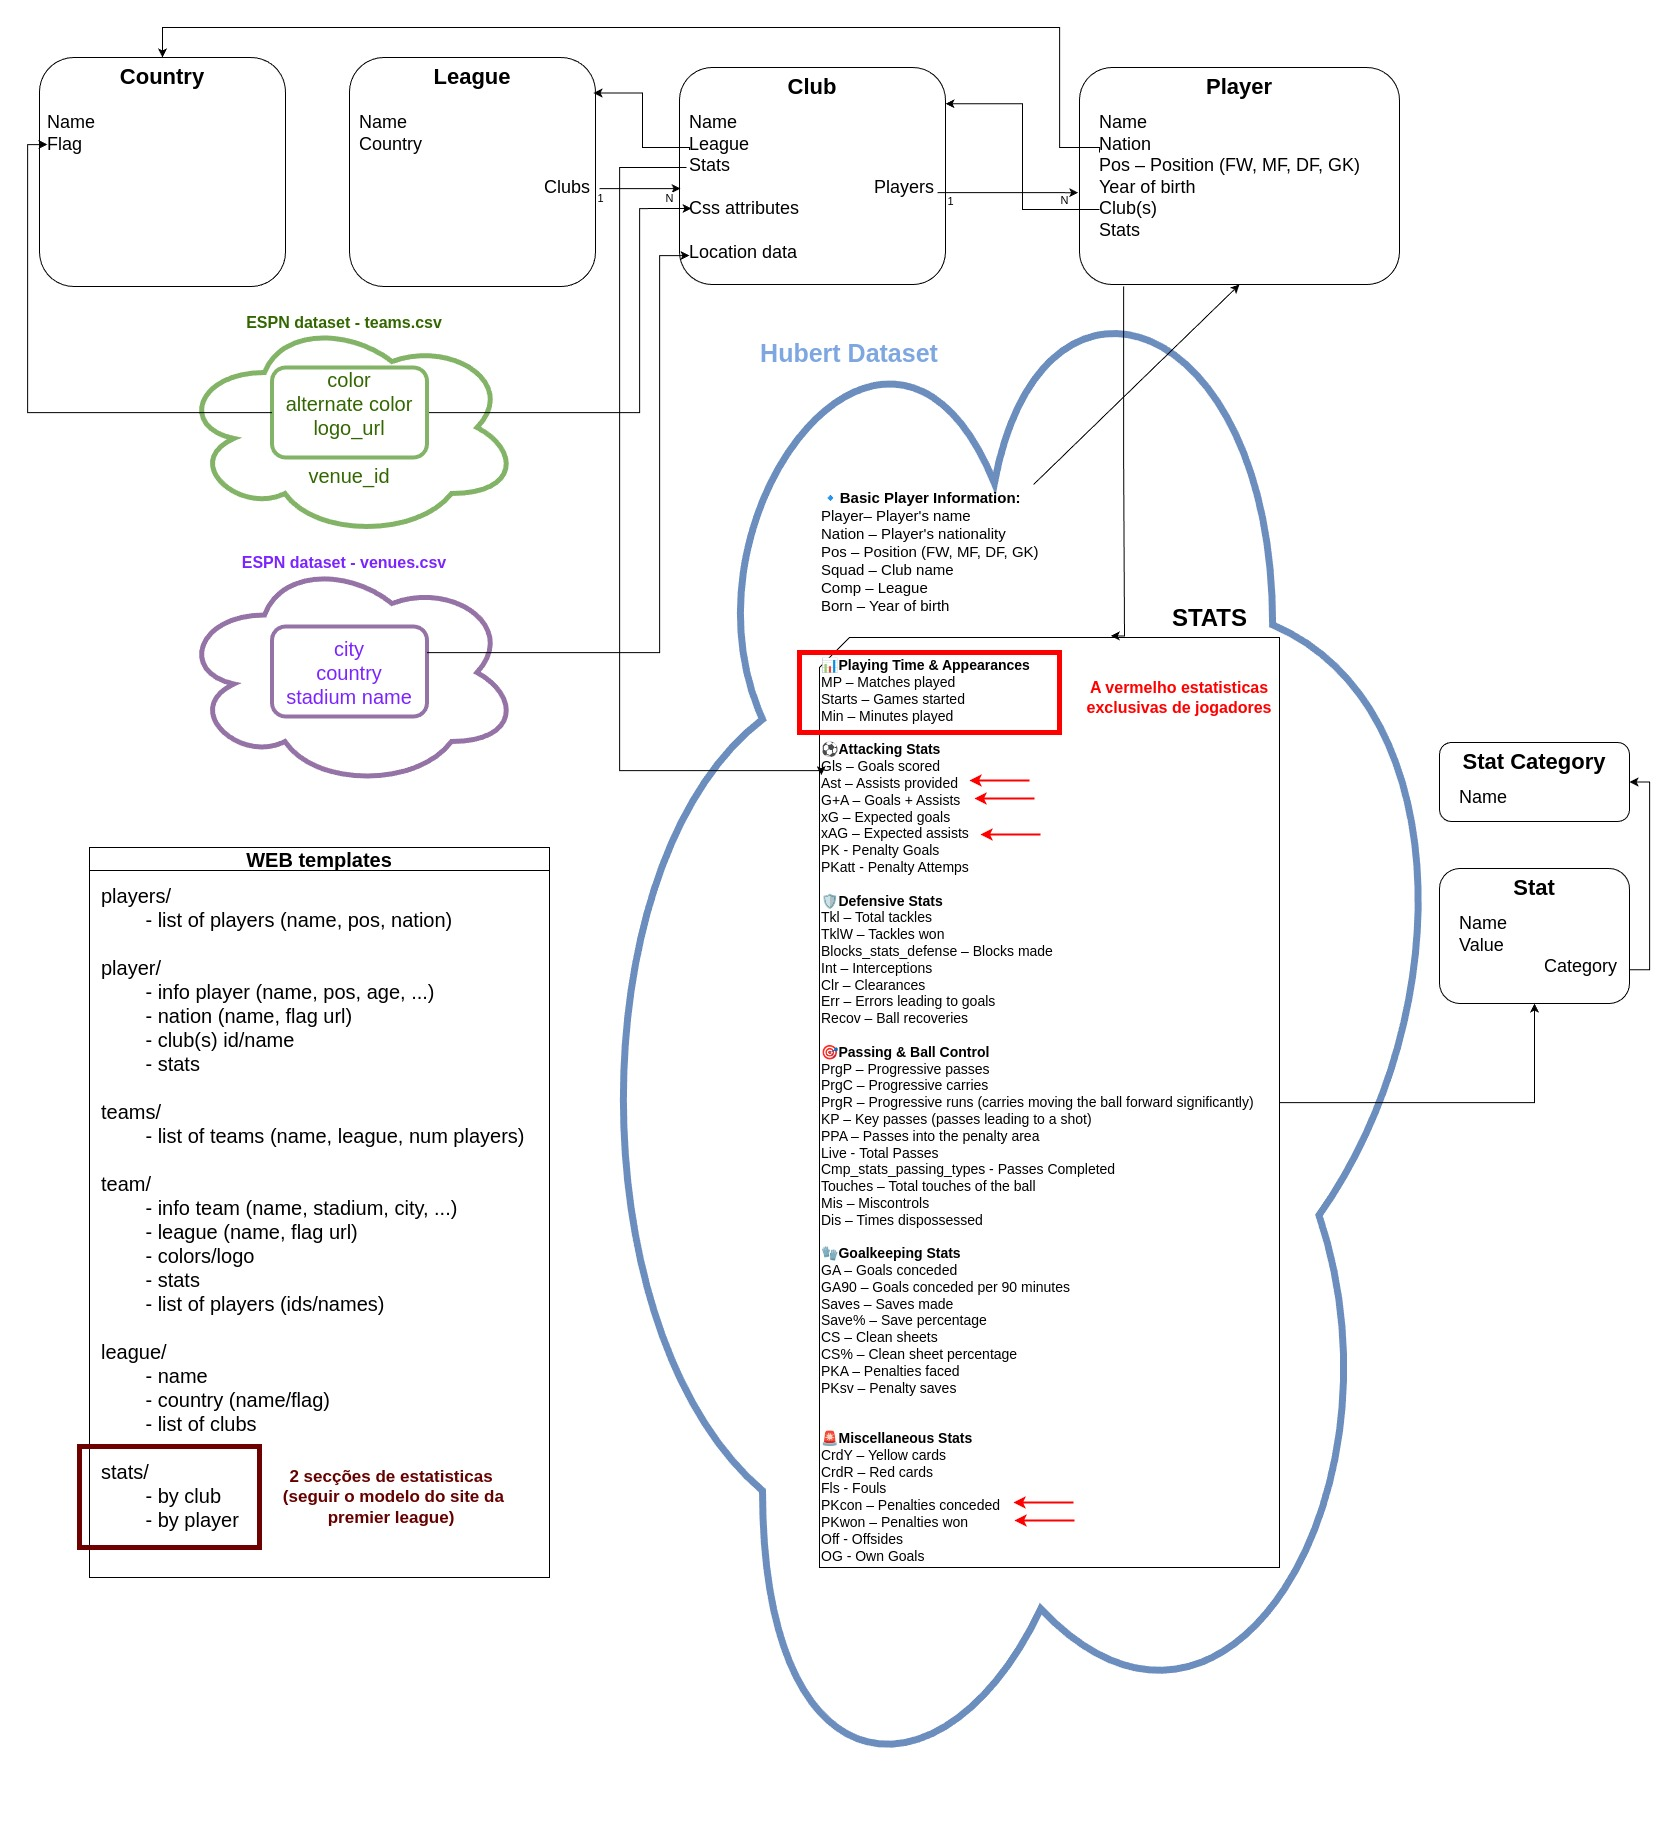
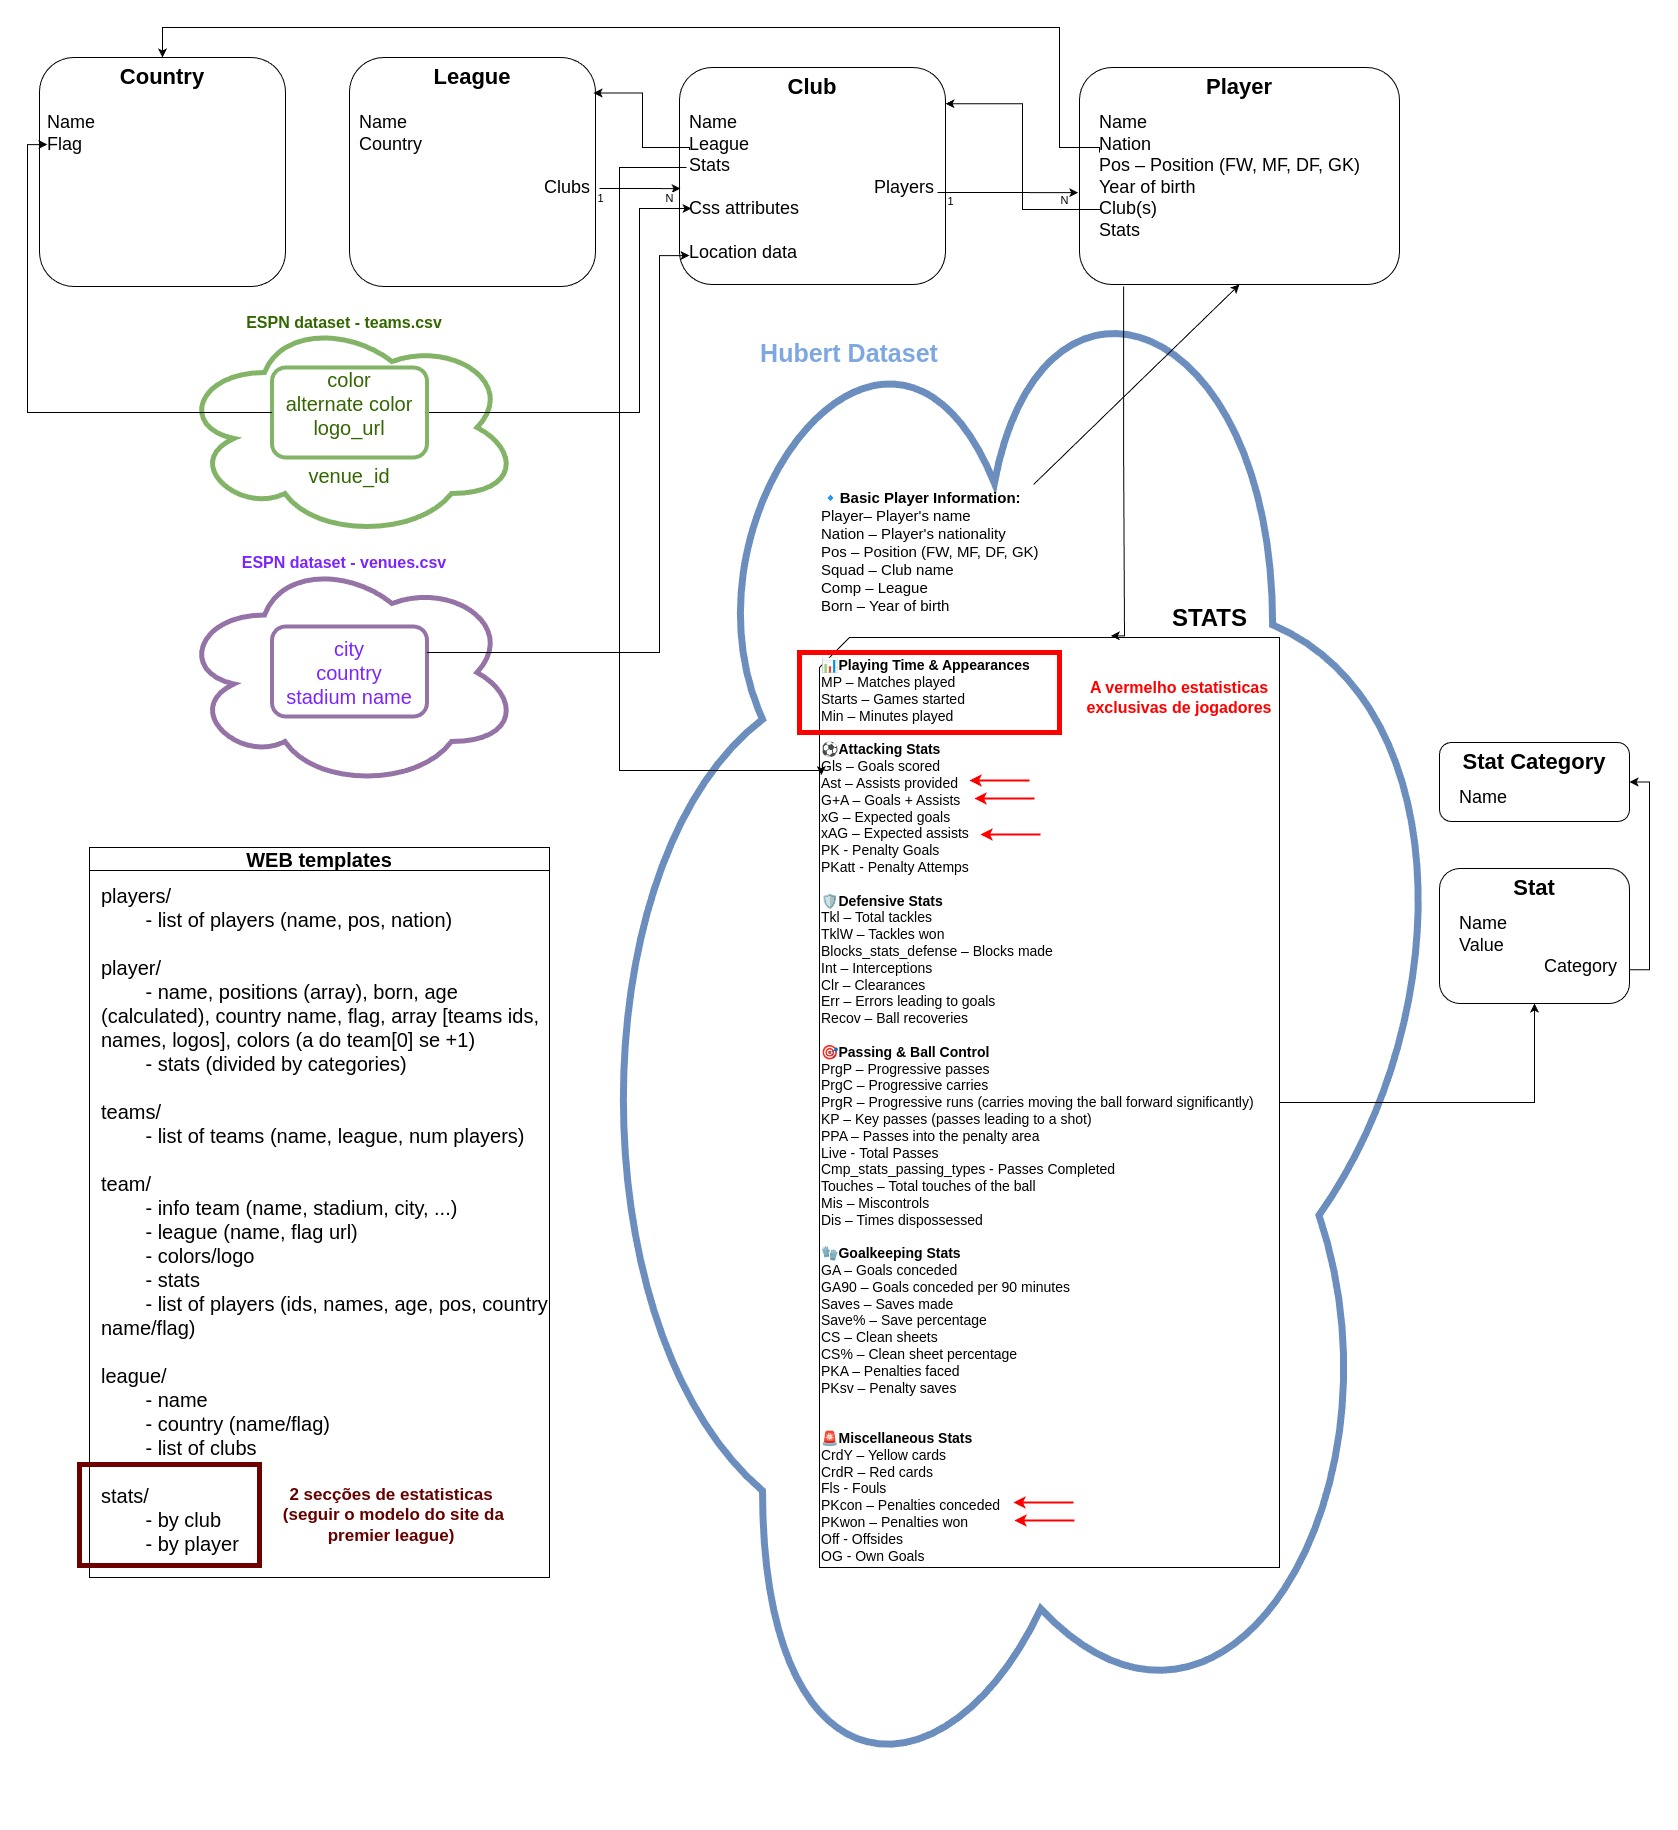
initial web templates

Changed region(s): [[0.031, 0.7164, 0.3099, 0.8721], [0.062, 0.5295, 0.2789, 0.5918], [0.1859, 0.6852, 0.2479, 0.7164]]

diff --git a/ws_project_1/app/templates/team.html b/ws_project_1/app/templates/team.html
@@ -1,0 +1,63 @@
+{% extends "layouts/entity.html" %}
+
+{% block content_inside %}
+
+    <div class="card-header" 
+        style="background-color: var(--main-color); color: var(--alt-color);">
+        <div class="row">
+            <div class="col-2 text-center">
+                <img src="{{ entity.logo }}" alt="{{ entity.name }}" class="img-fluid">
+            </div>
+            <div class="col-10">
+                <h2>{{ entity.name }}</h2>
+                <p class="m-1">
+                    <span>{{ entity.city }}</span>
+                    <span> • </span>
+                    <span>{{ entity.stadium }}</span>
+                </p>
+                <p>
+                    <a href="{% url 'league' league_id}" style="text-decoration: none;">
+                        <img src="{{ entity.league_flag }}" alt="Flag" style="height: 20px;">
+                    </a>
+                    <span>{{ entity.league_name }}</span>
+                </p>
+            </div>
+        </div>
+    </div>
+
+    <div class="card-body" style="color: var(--main-color); background-color: var(--alt-color);">
+        <h2>Squad</h2>
+
+        <table class="table table-bordered table-striped">
+            <thead>
+                <tr>
+                    <th>Name</th>
+                    <th>Position(s)</th>
+                    <th>Age</th>
+                    <th>Country</th>
+                </tr>
+            </thead>
+            <tbody>
+                {% for player in entity.players %}
+                    <tr>
+                        <td>{{ player.name }}</td>
+                        <td>
+                            {% for pos in player.pos %}
+                                <span>{{ pos }}{% if not forloop.last %}, {% endif %}</span>
+                            {% endfor %}
+                        </td>
+                        <td>{{ player.age }}</td>
+                        <td>
+                            <img src="{{ player.country_flag }}" alt="{{ player.country_name }}" style="height: 20px; margin-right: 5px;">
+                            {{ player.country_name }}
+                        </td>
+                    </tr>
+                {% endfor %}
+            </tbody>
+        </table>    </div>
+
+    <div class="card-footer" style="color: var(--alt-color); background-color: var(--main-color);">
+        <h2 class="mt-4">Stats</h2>
+    </div>
+
+{% endblock %}

diff --git a/ws_project_1/app/templates/player.html b/ws_project_1/app/templates/player.html
@@ -1,0 +1,45 @@
+{% extends "layouts/entity.html" %}
+
+{% block content_inside %}
+
+    <div class="card-header" 
+        style="background-color: var(--main-color); color: var(--alt-color);">
+        <div class="row">
+            <div class="col-10">
+                <h2>{{ entity.name }}</h2>
+                <p class="m-0">
+                    <img src="{{ entity.flag }}" alt="Flag" style="height: 20px;">
+                    <span>{{ entity.country_name }}</span>
+                    <span> • </span>
+                    <span>{{ entity.born }}</span>
+                    <span> • </span>
+                    <span>{{ entity.age }}y</span>
+                </p>
+                <p>
+                    {% for position in entity.pos %}
+                    {{ position }}{% if not forloop.last %} • {% endif %}
+                    {% endfor %}
+                </p>
+                <p>
+                    {% for team in entity.teams %}
+                    <a href="{% url 'team' team.id %}" style="text-decoration: none;">
+                        <img src="{{ team.logo }}" alt="Club" style="height: 20px;">
+                    </a>
+                    <span>{{ team.name }}</span>
+                    <br>
+                    {% endfor %}
+                </p>
+            </div>
+            <div class="col-2 text-center">
+                {% if entity.teams %}
+                <img src="{{ entity.teams.0.logo }}" alt="{{ entity.teams.0.team_name }}" class="img-fluid">
+                {% endif %}
+            </div>
+        </div>
+    </div>
+
+    <div class="card-footer" style="color: var(--main-color); background-color: var(--alt-color);">
+        <h2 class="mt-4">Stats</h2>
+    </div>
+
+{% endblock %}

diff --git a/ws_project_1/app/templates/layouts/base.html b/ws_project_1/app/templates/layouts/base.html
@@ -1,0 +1,30 @@
+<!DOCTYPE html>
+<html lang="en">
+<head>
+    <meta charset="UTF-8">
+    <meta name="viewport" content="width=device-width, initial-scale=1.0">
+    <title>{% block title %}Football{% endblock %}</title>
+    <link rel="stylesheet" href="https://cdn.jsdelivr.net/npm/bootstrap@5.3.0/dist/css/bootstrap.min.css">
+</head>
+<body>
+
+    <nav class="navbar navbar-expand-lg navbar-dark bg-dark">
+        <div class="container">
+            <a class="navbar-brand" href="/">Football</a>
+            <ul class="navbar-nav">
+                <li class="nav-item"><a class="nav-link" href="{% url 'teams' %}">Teams</a></li>
+                <li class="nav-item"><a class="nav-link" href="{% url 'players' %}">Players</a></li>
+            </ul>
+        </div>
+    </nav>
+
+    <div class="container mt-4">
+        {% block content %}{% endblock %}
+    </div>
+
+    <footer class="text-center mt-4">
+        <!-- <p>&copy; 2025 Football Stats</p> -->
+    </footer>
+
+</body>
+</html>

diff --git a/ws_project_1/app/templates/layouts/entity.html b/ws_project_1/app/templates/layouts/entity.html
@@ -1,0 +1,17 @@
+{% extends "layouts/base.html" %}
+
+{% block title %}{{ entity.name }}{% endblock %}
+
+{% block content %}
+
+<div class="card mb-4" 
+    style="border: 1px solid #{{ entity.color }}; 
+           --main-color: #{{ entity.color }};
+           --alt-color: #{{ entity.alternate_color }};">
+
+    {% block content_inside %}
+    {% endblock %}
+
+</div>
+
+{% endblock %}

diff --git a/ws_project_1/app/views.py b/ws_project_1/app/views.py
@@ -1,0 +1,62 @@
+from django.shortcuts import render
+
+def player_detail(request, player_id):
+    player_data = {
+        "name": "Aaron Malouda",
+        "born": 2005,
+        "age": 2025 - 2005,
+        "pos": ["Defender", "Midfielder"],
+        "country_name": "France",
+        "flag": "https://a.espncdn.com/i/teamlogos/countries/500/fra.png",
+        "teams": [
+            {
+                "id": "paris_saint_germain",
+                "name": "Paris Saint-Germain",
+                "logo": "https://a.espncdn.com/i/teamlogos/soccer/500/160.png",
+            },
+            {
+                "id": "lille_osc",
+                "name": "Lille OSC",
+                "logo": "https://a.espncdn.com/i/teamlogos/soccer/500/170.png",
+            }
+        ],
+        "color": "0C2C56",
+        "alternate_color": "FFFFFF",
+        "stats": []
+    }
+
+    return render(request, "player.html", {"entity": player_data})
+
+def team_detail(request, team_id):
+    team_data = {
+        "name": "Paris Saint-Germain",
+        "stadium": "Parc des Princes",
+        "city": "Paris",
+        "league_id": 'fr',
+        "league_name": "Ligue 1",
+        "league_flag": "https://a.espncdn.com/i/teamlogos/countries/500/fra.png",
+        "color": "0C2C56",
+        "alternate_color": "FFFFFF",
+        "logo": "https://a.espncdn.com/i/teamlogos/soccer/500/160.png",
+
+        "players": [
+            {
+                "id": "aaron_malouda",
+                "name": "Aaron Malouda",
+                "age": 2025 - 2005,
+                "pos": ["DF", "MD"],
+                "country_name": "France",
+                "country_flag": "https://a.espncdn.com/i/teamlogos/countries/500/fra.png",
+            },
+            {
+                "id": "benoit_lafont",
+                "name": "Benoit Lafont",
+                "age": 2025 - 1998,
+                "pos": ["GK"],
+                "country_name": "Portugal",
+                "country_flag": "https://a.espncdn.com/i/teamlogos/countries/500/por.png",
+            }
+        ],
+    }
+
+    return render(request, "team.html", {"entity": team_data})

diff --git a/ws_project_1/ws_project_1/urls.py b/ws_project_1/ws_project_1/urls.py
@@ -16,7 +16,14 @@ Including another URLconf
 """
 from django.contrib import admin
 from django.urls import path
+from app.views import *
+
 
 urlpatterns = [
     path('admin/', admin.site.urls),
+    path("player/<path:player_id>", player_detail, name="player"),
+    path("team/<path:team_id>", team_detail, name="team"),
+    path("league/<path:team_id>", team_detail, name="league"),
+    path("players/", player_detail, name="players"),
+    path("teams/", player_detail, name="teams"),
 ]

diff --git a/ws_project_1/ws_project_1/settings.py b/ws_project_1/ws_project_1/settings.py
@@ -54,7 +54,7 @@ ROOT_URLCONF = 'ws_project_1.urls'
 TEMPLATES = [
     {
         'BACKEND': 'django.template.backends.django.DjangoTemplates',
-        'DIRS': [],
+        'DIRS': [BASE_DIR / 'app' / 'templates'],
         'APP_DIRS': True,
         'OPTIONS': {
             'context_processors': [
